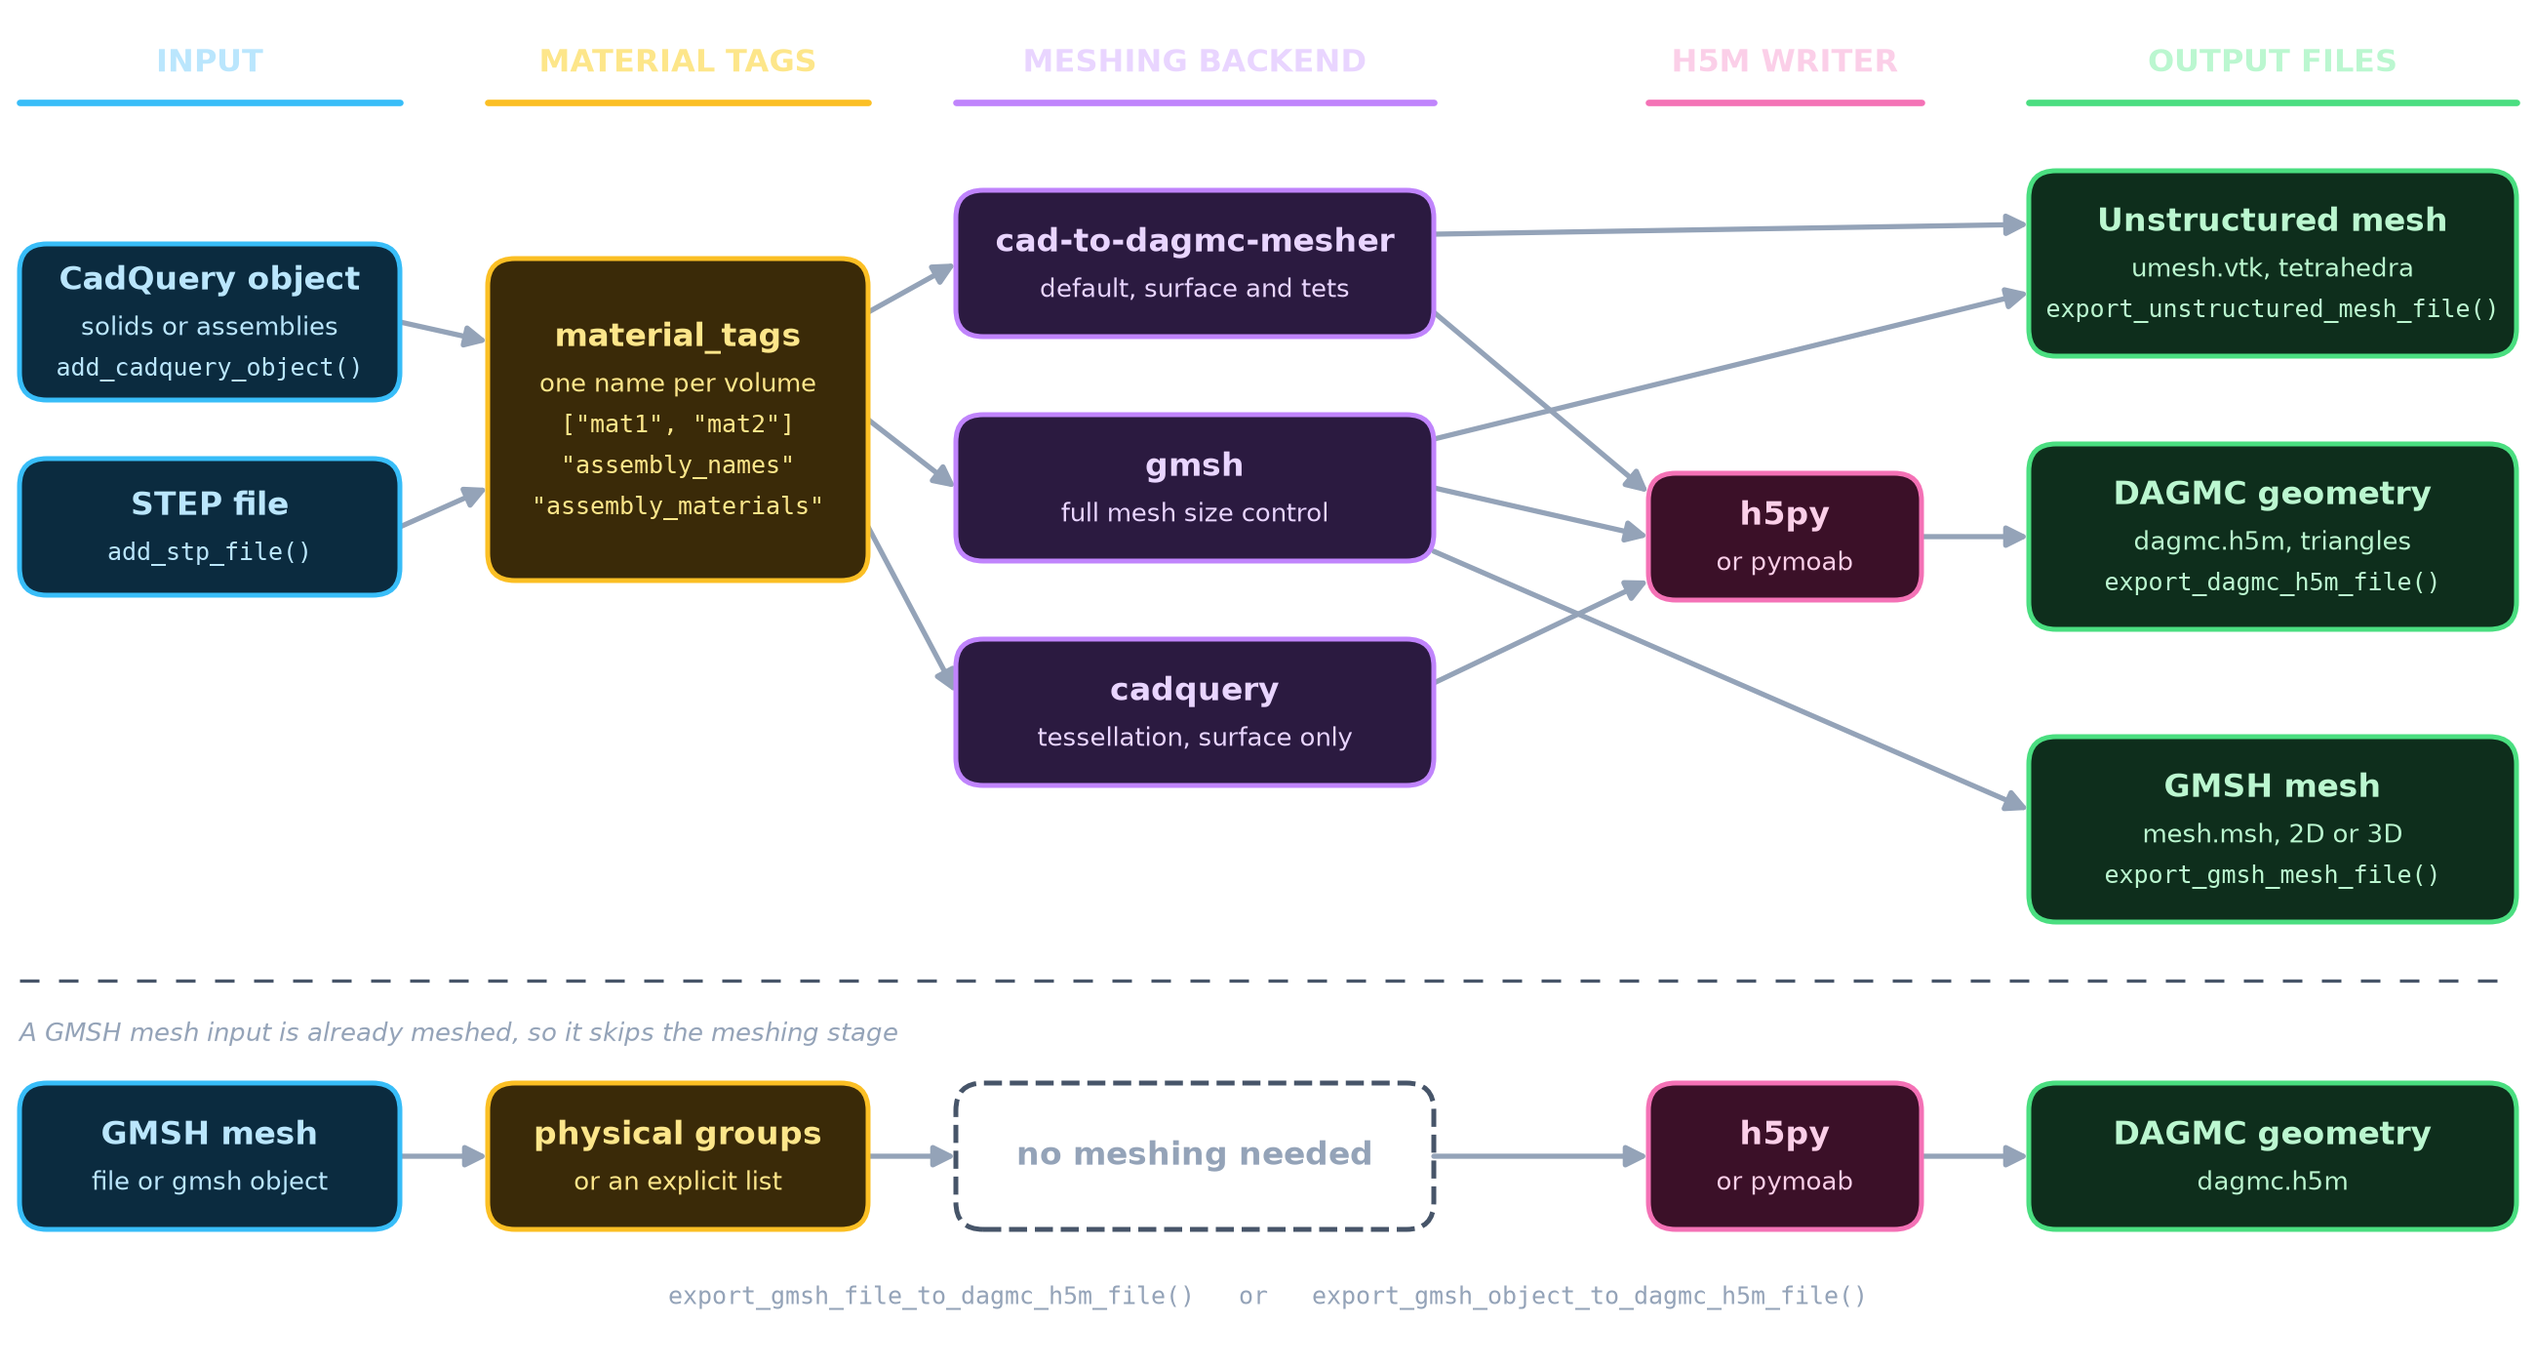
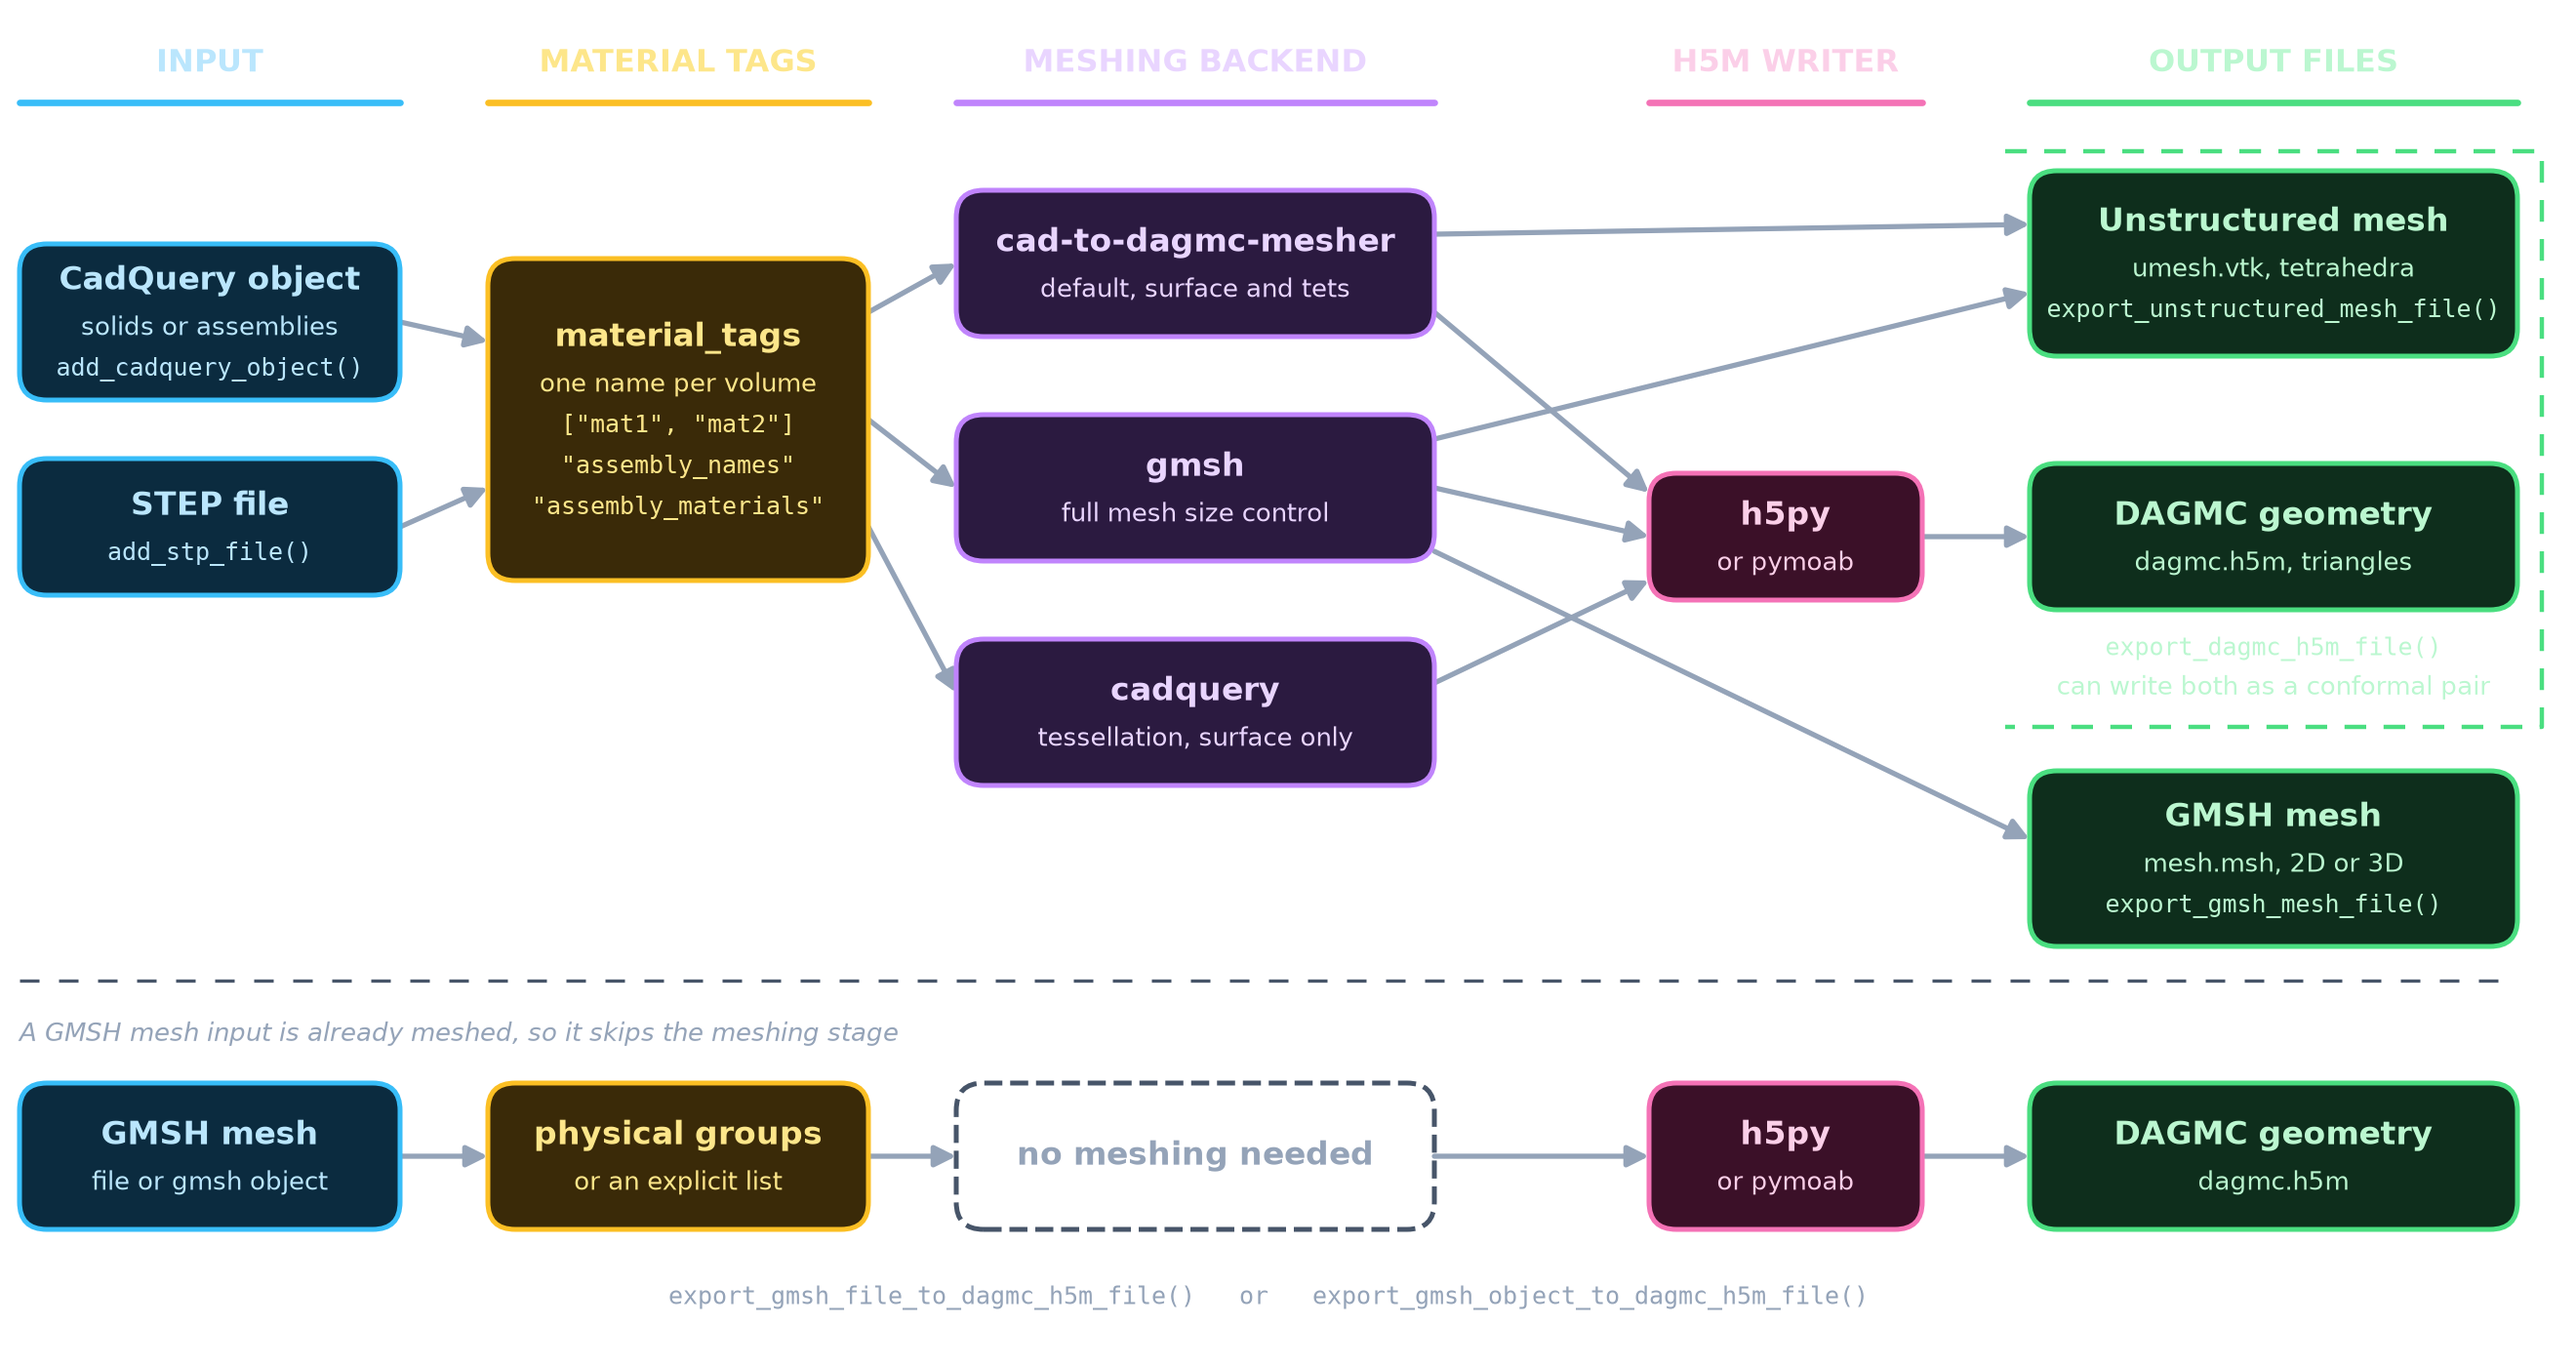
Show the conformal h5m and vtk pair on the workflow diagram
export_dagmc_h5m_file writes an unstructured mesh vtk alongside the h5m and
returns both filenames on two paths: the gmsh backend with
unstructured_volumes, which generates the 3D mesh from the same gmsh model
the surface triangles came from, and the cad-to-dagmc-mesher backend with
tet_volumes and target_edge_length, where the tets come from the same
mesh_assembly call. The diagram only showed the h5m coming out of that call.

The two output files it can write are now bracketed together and labelled as
a conformal pair. The producing call moves from inside the DAGMC geometry box
onto that bracket, since it covers both files rather than just one.

diff --git a/docs/_scripts/generate_workflow_diagram.py b/docs/_scripts/generate_workflow_diagram.py
@@ -22,9 +22,9 @@ from matplotlib.patches import FancyArrowPatch, FancyBboxPatch
 
 OUTPUT_DIR = Path(__file__).resolve().parents[1] / "_static"
 
-XLIM = (0.0, 26.0)
+XLIM = (0.0, 26.4)
 YLIM = (0.0, 14.0)
-FIGSIZE = (13.0, 7.0)
+FIGSIZE = (13.2, 7.0)
 
 # Column centres and half widths, one entry per stage.
 COLUMNS = {
@@ -248,23 +248,52 @@ def build_figure(theme_name):
         "Unstructured mesh",
         [("umesh.vtk, tetrahedra", False), ("export_unstructured_mesh_file()", True)],
     )
+    # The producing call for this box is named on the bracket below, which
+    # covers both files it can write.
     h5m_left, _ = draw_box(
-        ax,
-        theme,
-        "output",
-        8.5,
-        1.9,
-        "DAGMC geometry",
-        [("dagmc.h5m, triangles", False), ("export_dagmc_h5m_file()", True)],
+        ax, theme, "output", 8.5, 1.5, "DAGMC geometry", [("dagmc.h5m, triangles", False)]
     )
     msh_left, _ = draw_box(
         ax,
         theme,
         "output",
-        5.5,
-        1.9,
+        5.2,
+        1.8,
         "GMSH mesh",
         [("mesh.msh, 2D or 3D", False), ("export_gmsh_mesh_file()", True)],
+    )
+
+    # export_dagmc_h5m_file can write the h5m and a conformal vtk in one call,
+    # so bracket the two output files it produces together. The bracket is left
+    # open on the side the arrows come in from.
+    _, output_edge, output_text = theme["output"]
+    ax.plot(
+        [20.55, 26.05, 26.05, 20.55],
+        [12.45, 12.45, 6.55, 6.55],
+        color=output_edge,
+        linewidth=1.6,
+        linestyle=(0, (5, 4)),
+        solid_joinstyle="round",
+        zorder=1,
+    )
+    ax.text(
+        23.3,
+        7.35,
+        "export_dagmc_h5m_file()",
+        ha="center",
+        va="center",
+        fontsize=MONO_SIZE,
+        family="monospace",
+        color=output_text,
+    )
+    ax.text(
+        23.3,
+        6.95,
+        "can write both as a conformal pair",
+        ha="center",
+        va="center",
+        fontsize=SUB_SIZE,
+        color=output_text,
     )
 
     # Inputs feed the material tags.
@@ -287,7 +316,7 @@ def build_figure(theme_name):
     draw_arrow(ax, theme, (gmsh_right, 9.5), (vtk_left, 11.0))
 
     # Only gmsh writes its own native mesh format.
-    draw_arrow(ax, theme, (gmsh_right, 8.35), (msh_left, 5.7))
+    draw_arrow(ax, theme, (gmsh_right, 8.35), (msh_left, 5.4))
 
     # An already meshed input skips the meshing stage, shown as its own row.
     ax.plot(

diff --git a/docs/index.md b/docs/index.md
@@ -12,14 +12,20 @@ writer, while the unstructured mesh vtk and GMSH msh files are written by the
 meshing backend itself. A GMSH mesh is already meshed, so it converts straight
 to a DAGMC h5m file.
 
+`export_dagmc_h5m_file()` can write the DAGMC h5m file on its own, or write it
+together with a conformal unstructured mesh vtk file from a single meshing call.
+Pass `unstructured_volumes` on the gmsh backend, or `tet_volumes` and
+`target_edge_length` on the cad-to-dagmc-mesher backend, and it returns both
+filenames. See [Conformal Meshes](outputs/conformal_meshes.md).
+
 ```{image} _static/workflow_light.png
-:alt: CadQuery objects and STEP files are given material tags, then meshed by the cad-to-dagmc-mesher, gmsh or cadquery backend. All three write DAGMC h5m files through the h5py or pymoab writer. The cad-to-dagmc-mesher and gmsh backends also write tetrahedra to unstructured mesh vtk files, and gmsh also writes GMSH msh files. A GMSH mesh input skips the meshing stage and goes straight to an h5m writer.
+:alt: CadQuery objects and STEP files are given material tags, then meshed by the cad-to-dagmc-mesher, gmsh or cadquery backend. All three write DAGMC h5m files through the h5py or pymoab writer. The cad-to-dagmc-mesher and gmsh backends also write tetrahedra to unstructured mesh vtk files, and gmsh also writes GMSH msh files. A single export_dagmc_h5m_file call can write the DAGMC h5m file and the unstructured mesh vtk file together as a conformal pair. A GMSH mesh input skips the meshing stage and goes straight to an h5m writer.
 :class: only-light
 :width: 100%
 ```
 
 ```{image} _static/workflow_dark.png
-:alt: CadQuery objects and STEP files are given material tags, then meshed by the cad-to-dagmc-mesher, gmsh or cadquery backend. All three write DAGMC h5m files through the h5py or pymoab writer. The cad-to-dagmc-mesher and gmsh backends also write tetrahedra to unstructured mesh vtk files, and gmsh also writes GMSH msh files. A GMSH mesh input skips the meshing stage and goes straight to an h5m writer.
+:alt: CadQuery objects and STEP files are given material tags, then meshed by the cad-to-dagmc-mesher, gmsh or cadquery backend. All three write DAGMC h5m files through the h5py or pymoab writer. The cad-to-dagmc-mesher and gmsh backends also write tetrahedra to unstructured mesh vtk files, and gmsh also writes GMSH msh files. A single export_dagmc_h5m_file call can write the DAGMC h5m file and the unstructured mesh vtk file together as a conformal pair. A GMSH mesh input skips the meshing stage and goes straight to an h5m writer.
 :class: only-dark
 :width: 100%
 ```
